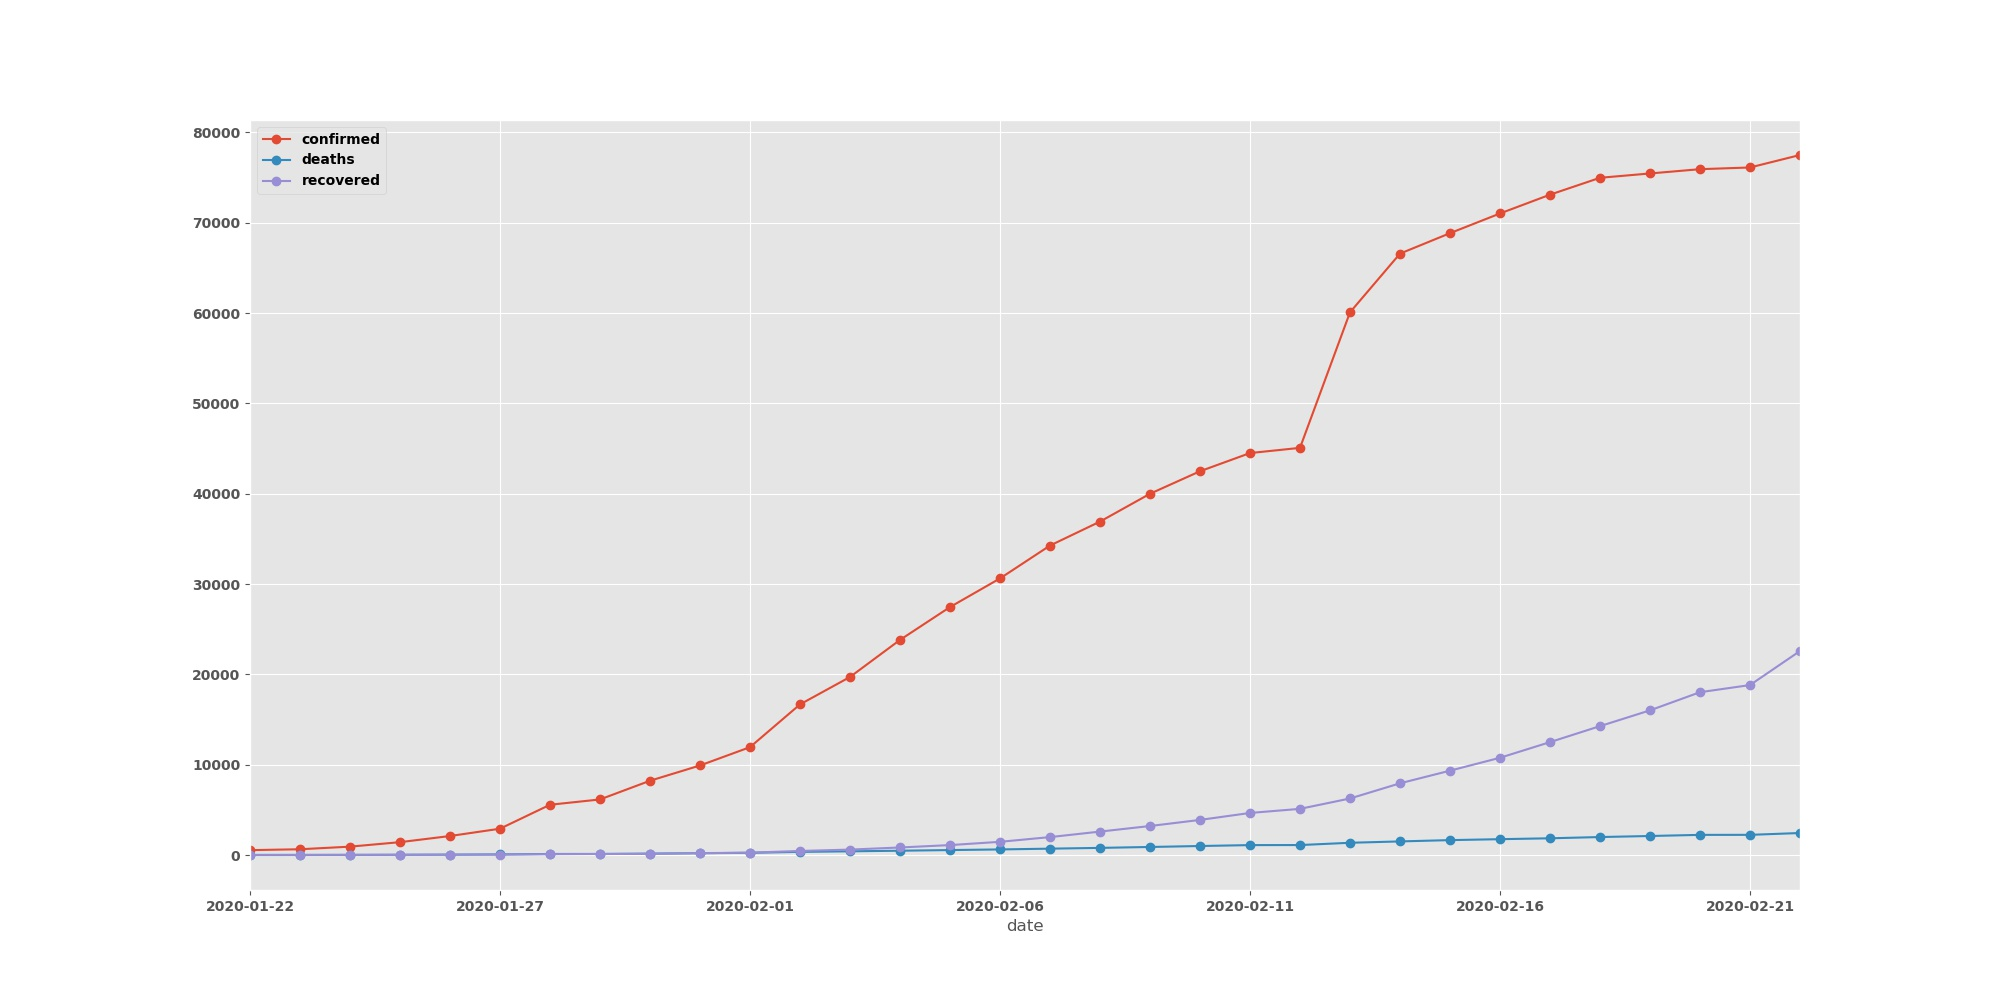
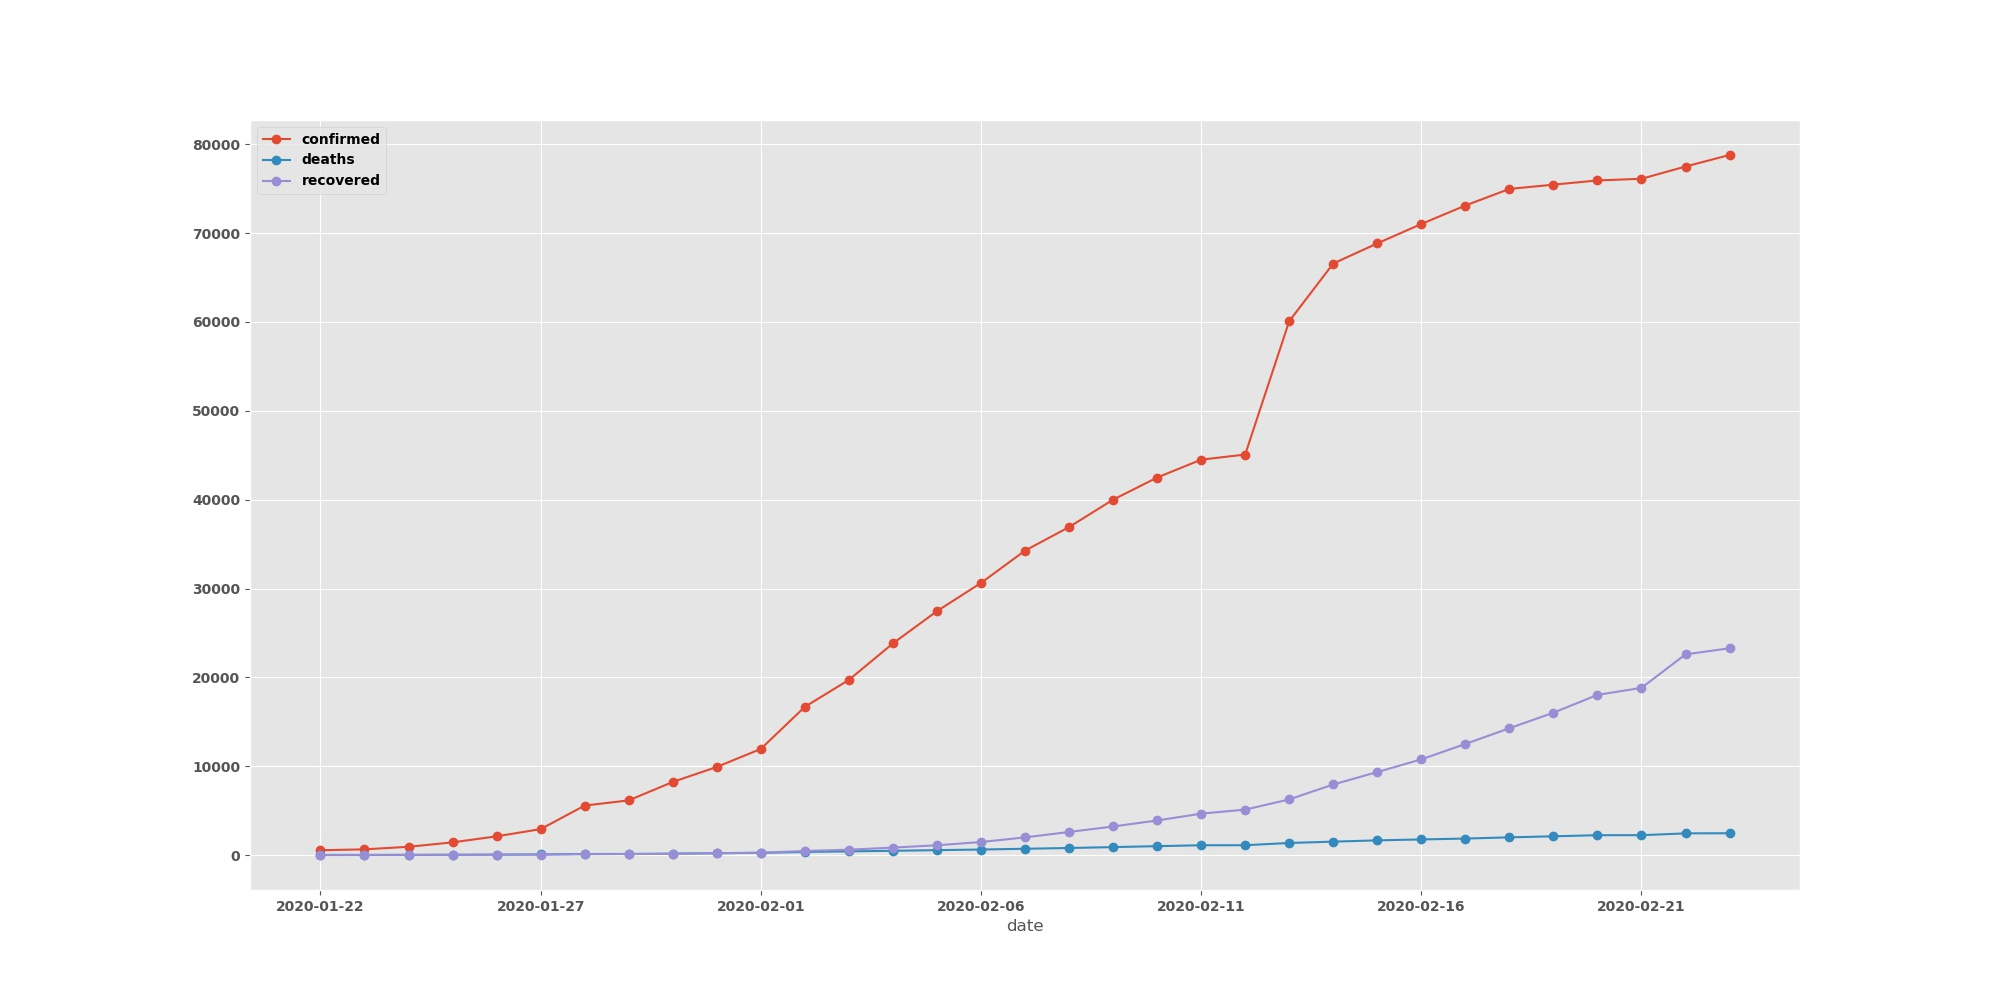
ADD - added report for the 23rd

diff --git a/README.md b/README.md
@@ -1,4 +1,4 @@
-# covid-19-analysis
+#covid-19-analysis
 
 ![alt text](https://github.com/AaronWard/coronavirus-analysis/blob/master/tableau/spread.gif "Spread of coronavirus 22nd to 29th")
 
@@ -32,7 +32,7 @@ This plots will be updated daily to visualize stats 3 attributes:
 - ```deaths```
 - ```recoveries```
 
-Last updated: `2020-02-23`
+Last updated: `2020-02-24`
 
 
 ##### Trend Line
